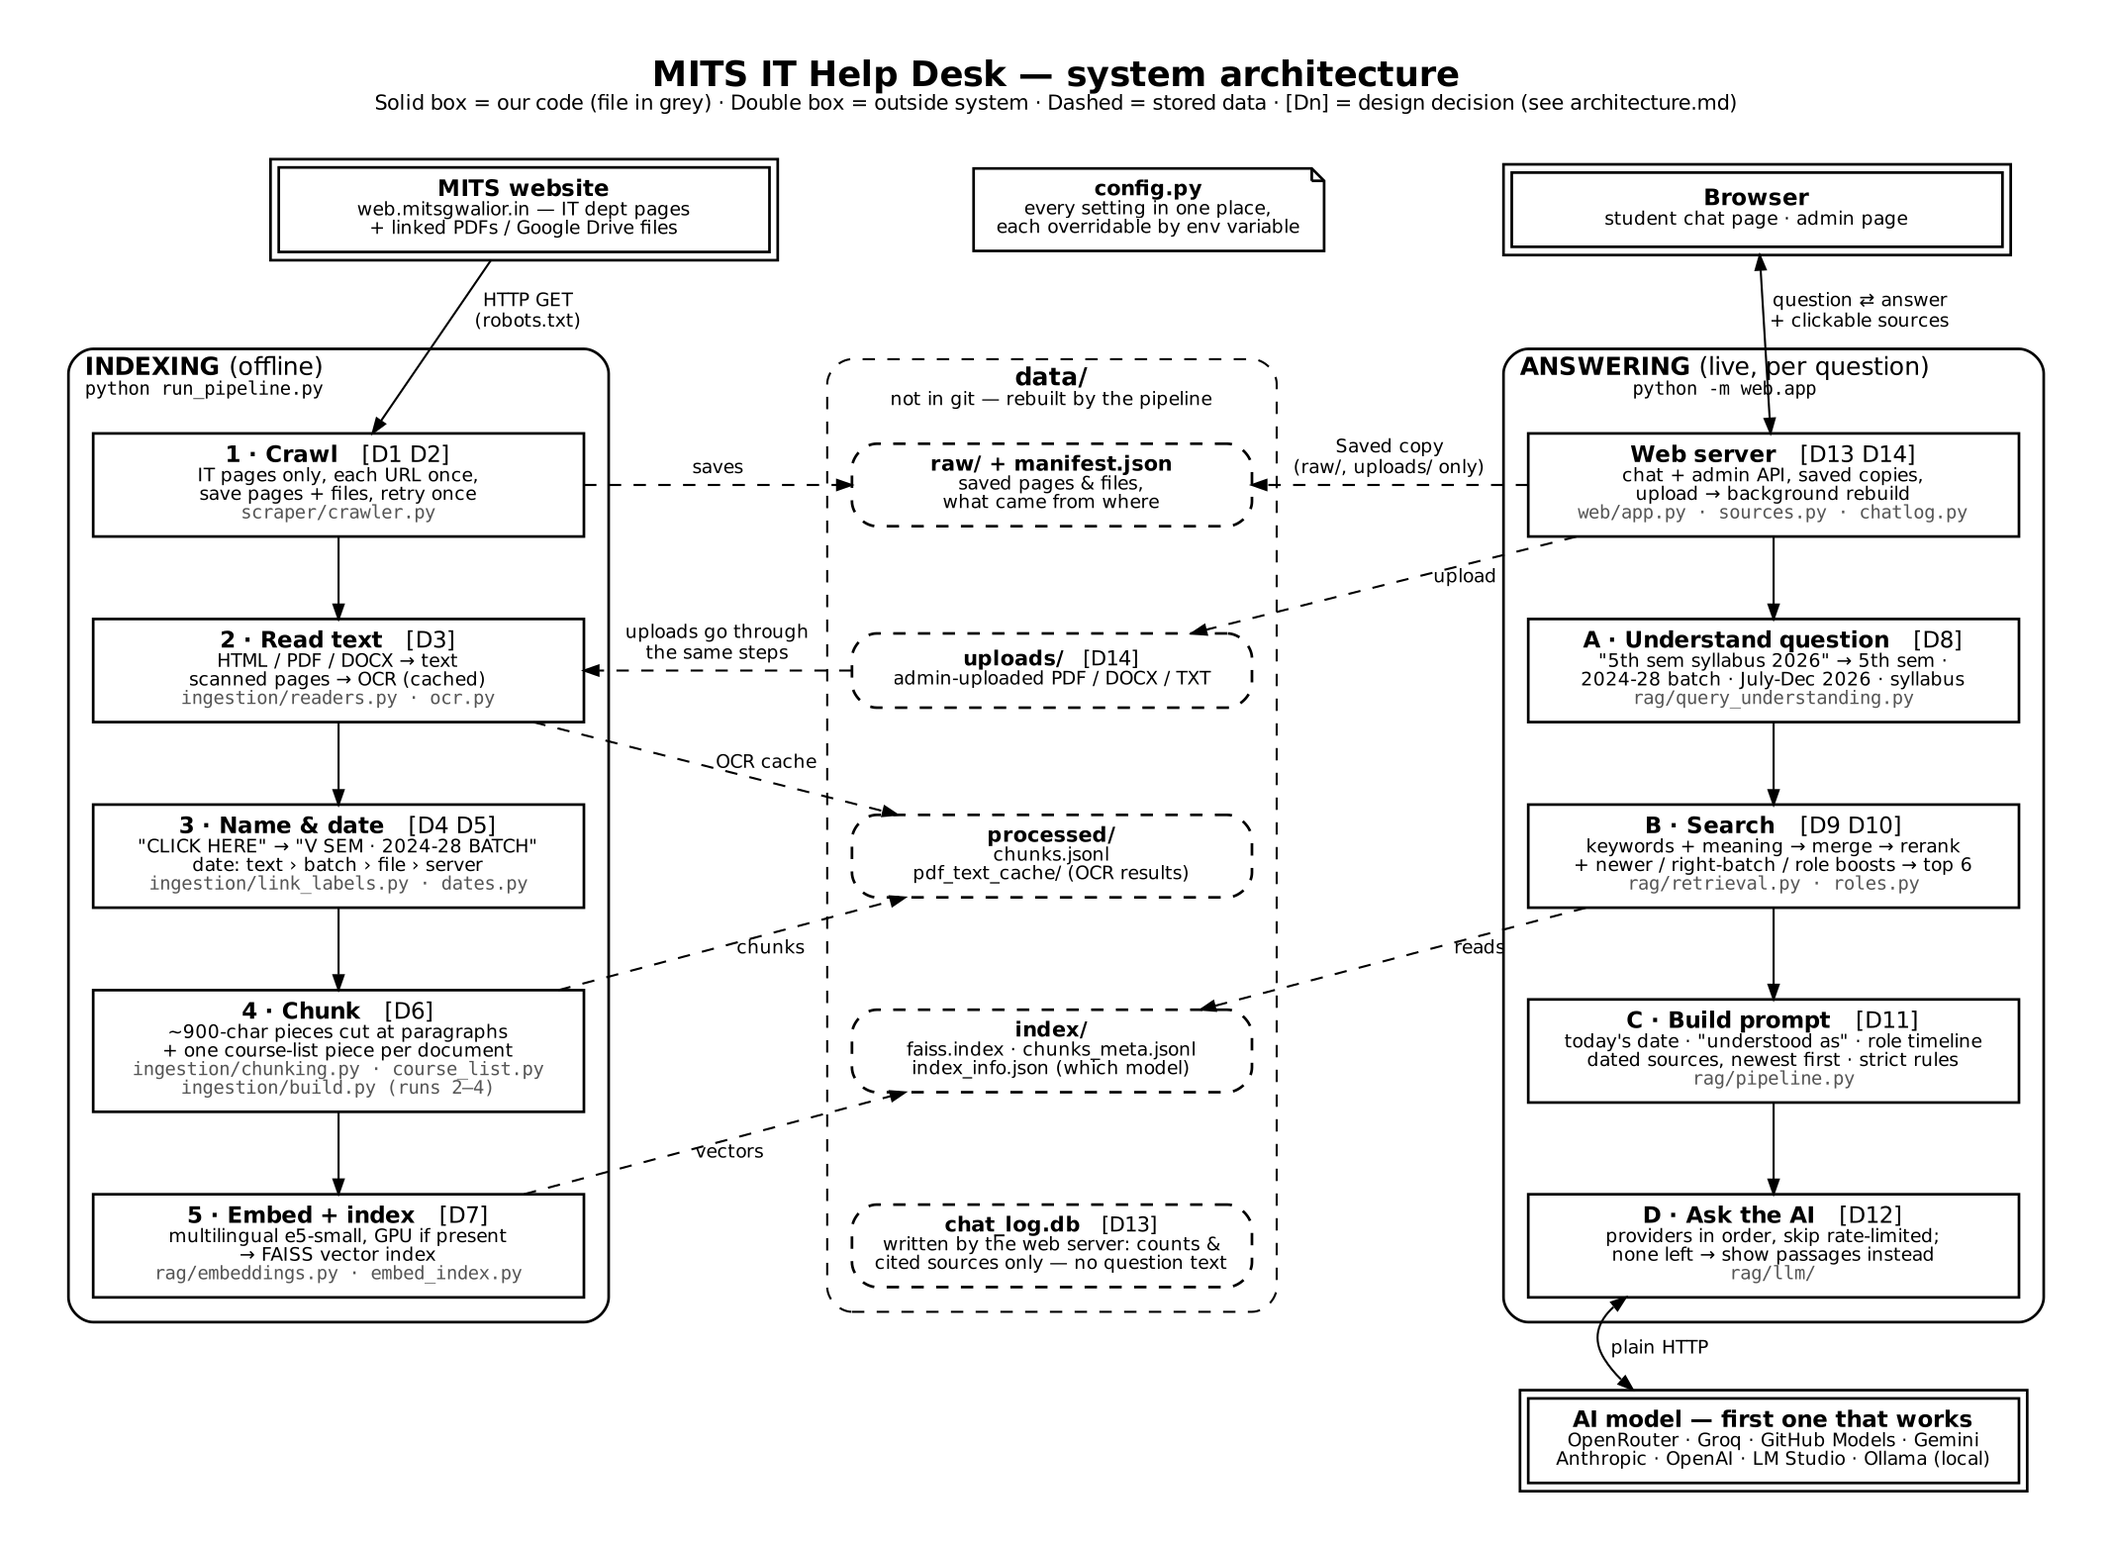
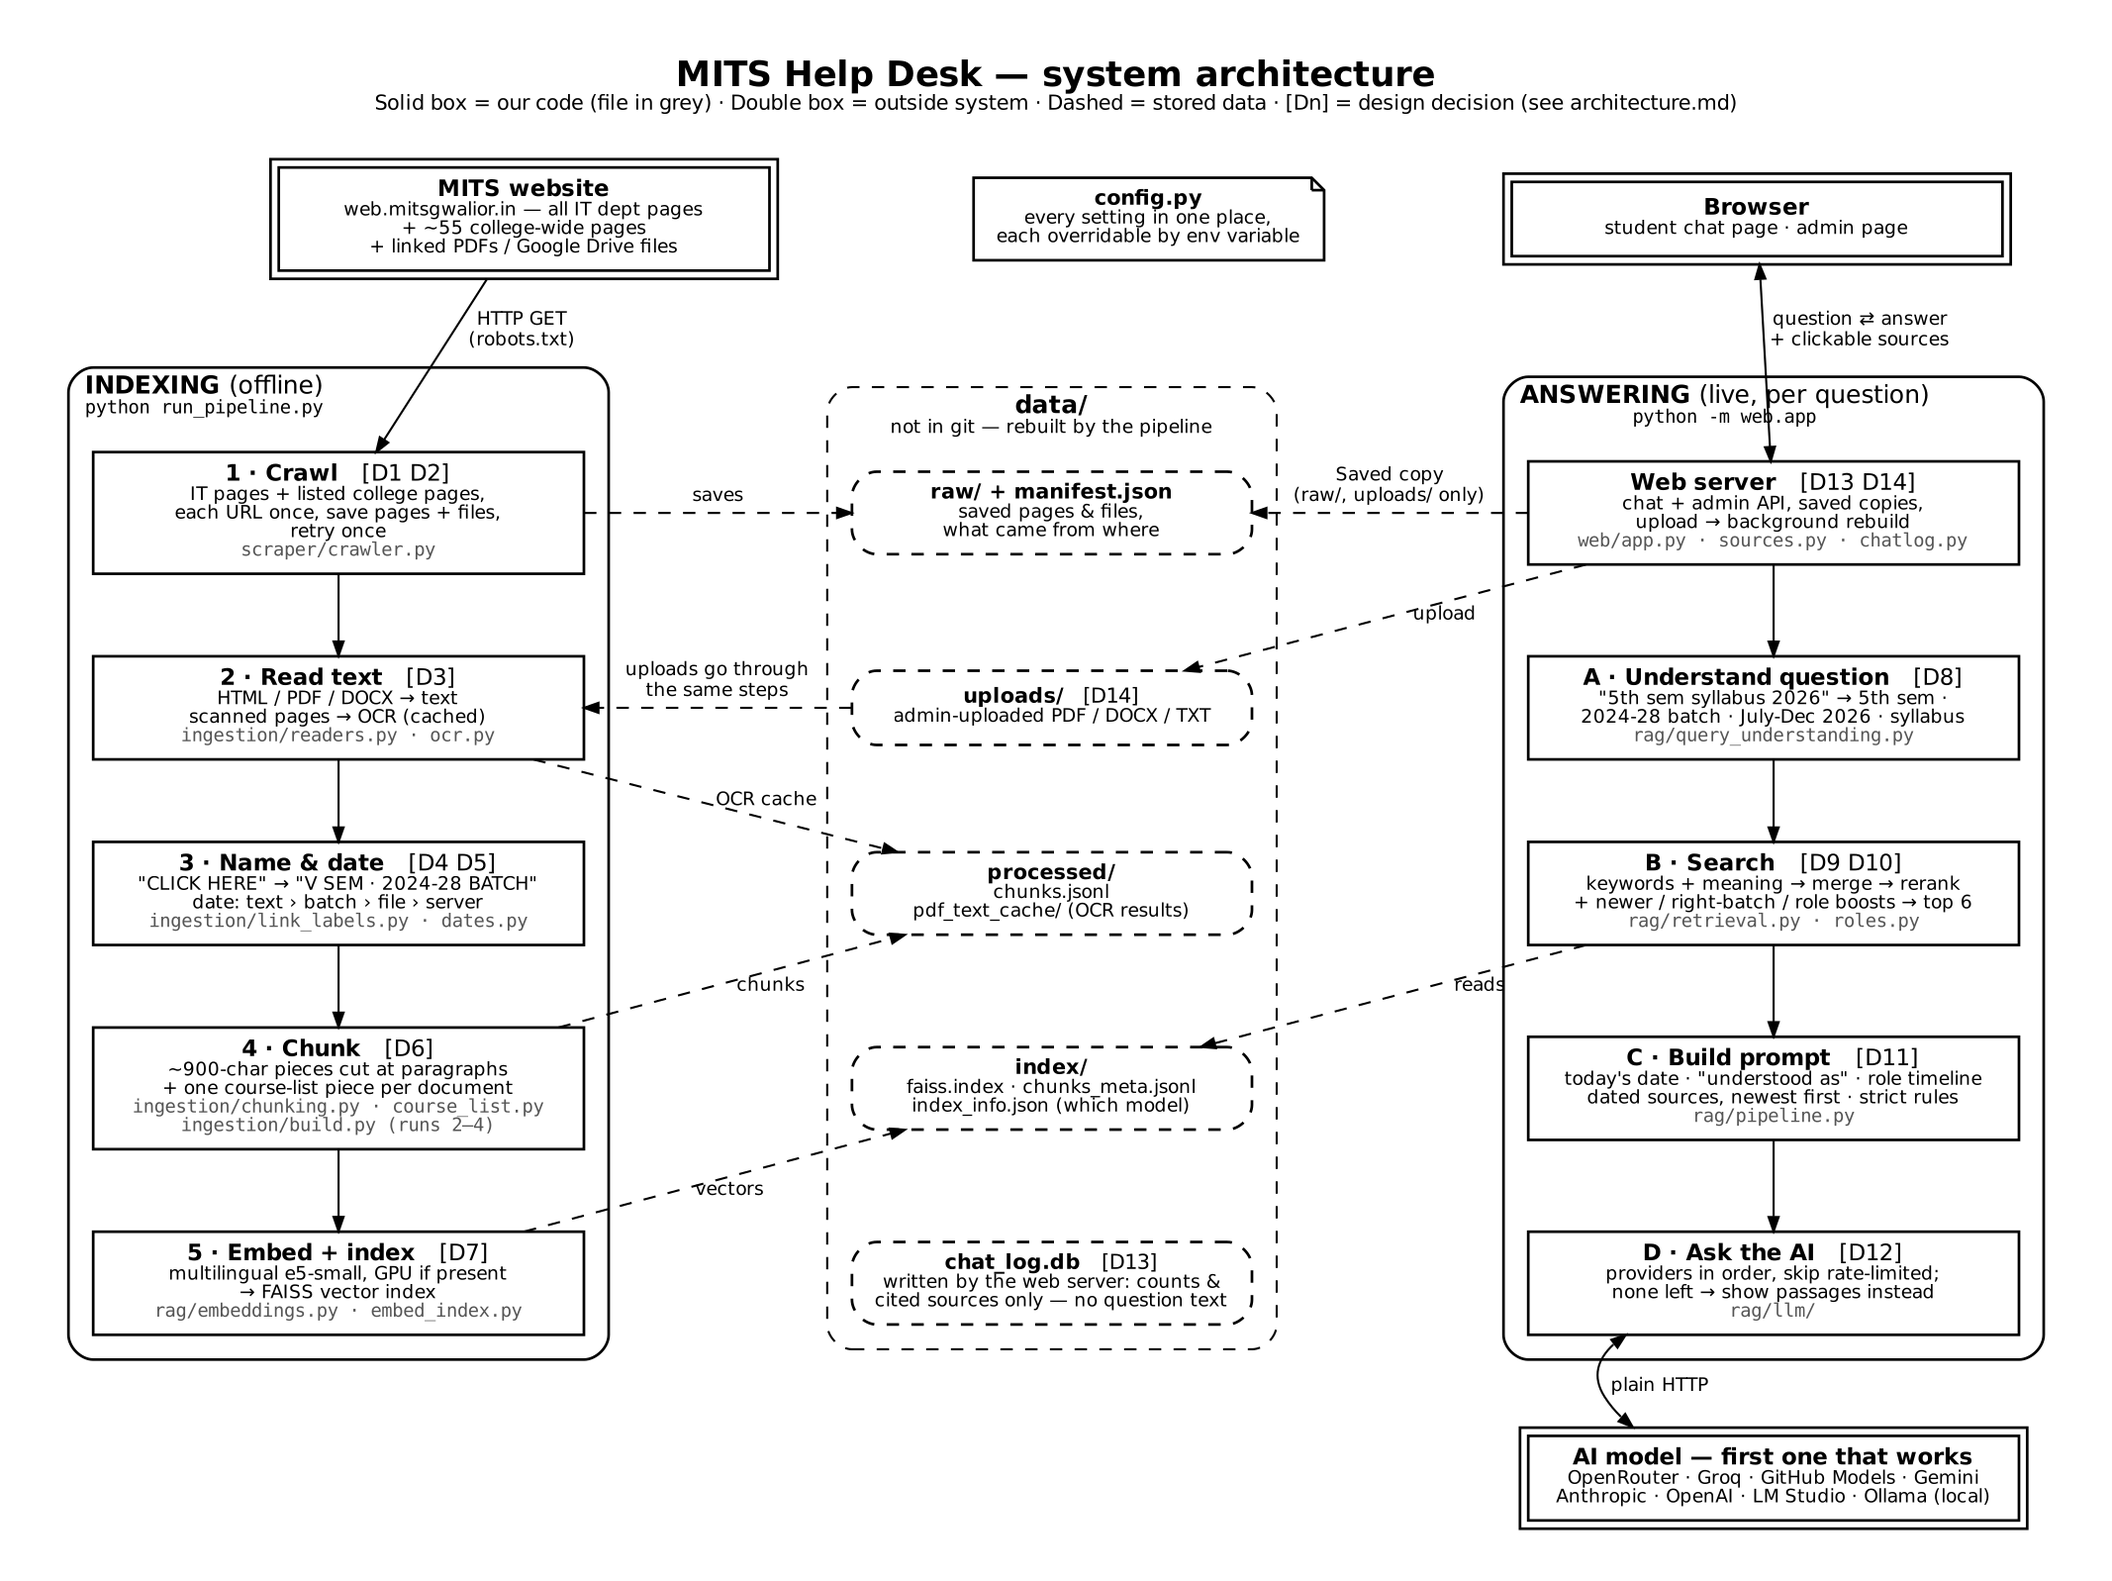
Docs match the build: college-wide scope, D18 (why Python/FAISS, not React/Node/MongoDB/Pinecone), D19 (one session, no accounts), docs/README.md index, old synopsis/slides/diagram moved to docs/archive/

diff --git a/docs/architecture/architecture.md b/docs/architecture/architecture.md
@@ -1,6 +1,6 @@
 # Architecture — MITS IT Help Desk
 
-A chatbot that answers questions about the MITS IT department **only from the department's own website and documents**, and shows where each answer came from.
+A chatbot that answers students' questions about MITS Gwalior **only from the college's own website and documents**, and shows where each answer came from. The IT department is covered in full (every page and every linked PDF); for the rest of the college a fixed list of college-wide pages is covered (rules, calendar, exams, fees, admissions, hostels, library, student cells, placement, notices). It is an MVP: other departments are added the same way.
 
 It has two halves that never run at the same time:
 
@@ -25,11 +25,11 @@ A real question traced through the system. The values on the right are actual ou
 
 ## Design decisions
 
-Each row answers: what we chose, why, and what we did **not** choose. D15–D17 came from testing with 55 real-style questions.
+Each row answers: what we chose, why, and what we did **not** choose. D15–D17 came from testing with 55 real-style questions; D18–D19 record where the build differs from the milestone 1–2 plan, and why.
 
 | # | Decision | Why | Not chosen (and why not) |
 |---|---|---|---|
-| **D1** | **Scope-locked crawl.** Only `web.mitsgwalior.in`, only IT pages (URL prefix + the department's own sidebar menu), only the page's main content area. | The bot must answer about the IT department, not the whole university. Site-wide menus link hostel or NAAC PDFs that would pollute answers. | Crawling the whole site: more data, but mostly irrelevant and slower. |
+| **D1** | **Scope-locked crawl.** Only `web.mitsgwalior.in`; all IT pages (URL prefix + the department's own sidebar menu), plus a fixed list of ~55 college-wide pages and 7 rule PDFs (`config.COLLEGE_PAGES`) whose links are *not* followed; only each page's main content area. | Students ask about the college too (fees, hostel, exam rules, calendar), and the project title says "college information". A hand-picked list adds exactly that without pulling in tenders, recruitment or 20 other departments. | Crawling the whole site: thousands of pages, mostly irrelevant, hours of OCR. IT pages only: the bot had to refuse every college question. |
 | **D2** | **Visit each URL once; safe writes; retry once.** Files are written to a temp file and then swapped in. A stopped crawl keeps the last complete `manifest.json`. Timeouts and 5xx errors are retried once. | No loops on cyclic links, no half-written files if you press Ctrl+C, and one network hiccup doesn't drop a page. | Endless retries: one dead link could stall the crawl. Resuming a stopped crawl: not needed, since a full crawl of ~30 pages takes minutes. |
 | **D3** | **OCR for scanned pages**: EasyOCR on the GPU (~2 s/page), RapidOCR on a CPU (~10 s/page). Results are cached by the **file's content**, not its path. | 1,737 of 4,896 PDF pages were scans with no text, including 14 of 19 pages of the 2026 V SEM syllabus. Caching by content means a copied `data/` folder on the laptop never redoes the 1-hour OCR. | Tesseract needs a system install on every machine. Skipping scans loses a third of the content. |
 | **D4** | **Name files from where they're linked.** A "CLICK HERE" link in a table becomes "V SEM · 2024-28 BATCH" (row + column header). | File names like `5th 11_merged.pdf` say nothing about the batch, so the bot couldn't tell this year's syllabus from last year's. | Using file names: they don't carry the batch. Asking staff to rename files: not in our control. |
@@ -46,6 +46,8 @@ Each row answers: what we chose, why, and what we did **not** choose. D15–D17 
 | **D15** | **Topic pages and scope rules.** Questions about labs, contacts, programmes or the department in general get that website page whole (`config.TOPIC_PAGES`); the prompt says to answer only from the IT site, never to read out students from lists, and to say which "lab" it means. | Testing showed the bot missed the Laboratories page ("labs" ≠ "laboratories"), turned a 2019 magazine joke into "yes, there is a mess", gave another college's address from a BoS member list, and listed debarred students by name. | A bigger model alone: it would still not see the Laboratories page, and a privacy rule is cheaper than trusting the model. |
 | **D16** | **Live progress while answering**: the server streams one line per step (understood, searching, sources found, which AI is writing, fallbacks) and the chat shows them as a checklist. | A 10-second wait with a spinner looks broken; showing what it's reading also builds trust. | Fake progress messages on a timer: they would lie when a step is slow. WebSockets: more moving parts than a streamed response. |
 | **D17** | **55 graded test questions** (`scripts/eval.py`) run after every change. | Each fix in D15 was found by them, and they show the fixes didn't break anything else. | Judging answers by hand each time: slow and easy to fool yourself. An AI judge: costs calls and needs its own checking. |
+| **D18** | **Python, files and FAISS instead of the planned React / Node.js / MongoDB / Pinecone** (Milestones 1–2). | The AI parts (embedding models, FAISS, OCR, rerankers) are Python-first. 9,348 chunks fit in memory (~15 MB) and are searched on the same machine, offline, for free. Text comes from pypdf + OCR and a 10-line .docx reader. | Pinecone: a paid cloud service with an API key and a network round-trip per question, built for millions of documents. Mammoth / pdf-parse: JavaScript libraries, and pdf-parse cannot read scanned pages. |
+| **D19** | **One session, no accounts, nothing stored.** The chat is a help widget: ask one question or several, reload and it is gone. Only the admin page has a password. | Students ask personal things; a help desk doesn't need to remember them. No login means no friction and no student data to protect. | Student logins and saved chat history (Milestone 2 design): more code, more personal data, and no benefit for one-off questions. |
 
 ---
 
@@ -61,9 +63,9 @@ What each folder is for, and why each file lives where it does. The four code fo
 | `web/` | **Shows it.** The website and its API. | `app.py`: the URLs (routes) only · `sources.py`: source names, links, citations, saved-page view · `chatlog.py`: usage counts (no question text) · `static/`: chat and admin pages (HTML/CSS/JS) |
 | `scripts/` | **Tools for checking the system.** Not used by the app. | `check_crawl.py`: did the crawl get everything? · `check_links.py`: does every source open? · `debug_retrieval.py`: why was a chunk (not) found? · `eval.py` + `eval_questions.json`: ask and grade the 55 test questions · `ask_batch.py`: answer your own list of questions |
 | `tests/` | **82 automated tests**, one file per module. Run with `uv run pytest tests -q`. | `test_<module>.py` |
-| `docs/` | **Documentation.** | `architecture/`: this file + diagrams (`.dot` source and `.png`) · `FEATURES.md`: what each feature does, in plain words · `evaluation/`: synopsis, presentation, and `architecture_v1_original.png` (the first design, kept because the synopsis and slides use it) |
+| `docs/` | **Documentation.** `docs/README.md` says which file to read for what. | `architecture/`: this file + diagrams (`.dot` source and `.png`) · `FEATURES.md`: what each feature does, in plain words · `archive/`: the minor-evaluation synopsis, slides and first diagram, kept unchanged for the record |
 | `data/` | **Everything the pipeline produces.** Not in git, because it's large and can be rebuilt. The repo only has an empty `data/.gitkeep` so the folder exists after cloning. | `raw/` + `manifest.json` (crawl) · `uploads/` (admin files) · `processed/` (`chunks.jsonl`, `pdf_text_cache/`) · `index/` (FAISS + chunk metadata + which model built it) · `chat_log.db` |
-| *(root)* | **Start points and settings.** | `run_pipeline.py`: crawl → chunks → index · `config.py`: every setting, each overridable by an environment variable · `pyproject.toml` + `uv.lock`: dependencies (`uv sync`) · `requirements.txt`: the same, generated from `uv.lock` for plain pip |
+| *(root)* | **Start points and settings.** | `run_pipeline.py`: crawl → chunks → index · `config.py`: every setting, each overridable by an environment variable or the `.env` file · `.env.example`: which API keys to put in `.env` (never committed) · `pyproject.toml` + `uv.lock`: dependencies (`uv sync`) · `requirements.txt`: the same, generated from `uv.lock` for plain pip |
 
 **What changed in the October 2026 clean-up:** `ingestion/extract.py` was split into `readers.py`, `chunking.py` and `build.py`; role matching moved from `retrieval.py` to `rag/roles.py`; source naming and saved pages moved from `web/app.py` to `web/sources.py`. Behaviour was checked to be identical: all tests pass, the same 9,348 chunks are built, and the same sources and prompt come out for 8 test questions.
 

diff --git a/README.md b/README.md
@@ -1,9 +1,10 @@
-# MITS IT Help Desk
+# MITS Help Desk
 
-A chatbot that answers questions about the **IT department of MITS Gwalior**, using only the department's own website and documents, and shows the source of every answer.
+A chatbot that answers students' questions about **MITS Gwalior**, using only the college's own website and documents, and shows the source of every answer. It covers the **IT department in full** (every page and every PDF it links to, scanned ones included) plus the main **college-wide pages** (rules and ordinances, academic calendar, exams, fees, admissions, hostels, library, student cells, placement, notices). It's an MVP built for one department; other departments are added the same way.
 
-It crawls the IT department pages and every PDF they link to, reads them (scanned pages included), gives every piece of text a date, and answers questions with a hybrid search and an AI model of your choice.
+It reads every page and PDF, gives every piece of text a date, and answers with a hybrid search and an AI model of your choice. One session, no login, nothing stored: reload and the chat is gone.
 
+- **Which doc to read for what:** [docs/README.md](docs/README.md)
 - **How it works, with diagrams and every design decision:** [docs/architecture/architecture.md](docs/architecture/architecture.md)
 - **Each feature in plain words (why / what / where):** [docs/FEATURES.md](docs/FEATURES.md)
 
@@ -63,7 +64,7 @@ More checking tools (crawl, links, retrieval debugging, batch answers) are liste
 
 ## Does it answer correctly?
 
-55 test questions (labs, School vs department, schemes, things not on the IT site, "where is…", mandatory tasks, contacts, timetables, typos) are graded with `uv run scripts/eval.py`. On 30 Oct 2026 with the local Ollama model: **43/55 before this round of fixes, 54/55 after.** Details and the per-group table: [docs/FEATURES.md](docs/FEATURES.md#13-55-test-questions-graded-automatically).
+55 test questions (labs, School vs department, schemes, things not on the IT site, "where is…", mandatory tasks, contacts, timetables, typos) are graded with `uv run scripts/eval.py`. On 30 Oct 2026 with the local Ollama model: **43/55 before this round of fixes, 54/55 after.** Details and the per-group table: [docs/FEATURES.md](docs/FEATURES.md#14-55-test-questions-graded-automatically).
 
 ## Settings
 
@@ -71,6 +72,6 @@ Every setting is in `config.py` and can be overridden with an environment variab
 
 ## Scope and privacy
 
-- The crawler only contacts `web.mitsgwalior.in`, follows only IT department pages, visits each URL once, and respects `robots.txt`.
+- The crawler only contacts `web.mitsgwalior.in`: it follows the IT department's pages, fetches a fixed list of college-wide pages without following their links, visits each URL once, and respects `robots.txt`.
 - Question and answer text is **never stored**: the log keeps only counts and which sources were cited.
 - `data/` (crawl, index, log) is not in git; `run_pipeline.py` rebuilds it.

diff --git a/docs/archive/README.md b/docs/archive/README.md
@@ -1,0 +1,18 @@
+# Archive: older documents (kept for the record)
+
+These describe the project **as it was at the minor evaluation (October 2026)**.
+They are not updated. For how the system works now, read
+[../architecture/architecture.md](../architecture/architecture.md) and [../FEATURES.md](../FEATURES.md).
+
+| File | What it is | What has changed since |
+|---|---|---|
+| `Synopsis_AI_Chatbot_MITS.docx` | Project synopsis (Shahid Khan, Vaibhav Bansal; guide Ms. Aradhana Saxena) | Embedding model is now multilingual-e5-small (was all-MiniLM-L6-v2); search is hybrid (keywords + meaning + reranker), not vectors only; scanned PDFs are read with OCR; every chunk is dated; more AI providers with automatic fallback |
+| `Presentation_AI_Chatbot_MITS.pptx` | Minor-evaluation slides | Same as above, plus: 86 automated tests (was 16), 55 graded test questions, college-wide pages added to the IT pages, live progress in the chat |
+| `architecture_v1_original.png` | First architecture diagram (4 layers) | Replaced by `../architecture/architecture.png`, which shows every step and design decision |
+
+The milestone reports (Requirement Analysis, System Design, Implementation,
+Integration & Testing) were submitted on SDMS as Google Drive links and are not
+stored in this repository. Milestones 1–3 describe the *planned* stack (React,
+Node.js, MongoDB, Pinecone); the project switched to Python early on because the
+AI parts (embeddings, FAISS, OCR, rerankers) are Python-first. See D18 in the
+architecture doc.

diff --git a/docs/README.md b/docs/README.md
@@ -1,0 +1,11 @@
+# Documentation: what to read
+
+| Read this | When you want to know |
+|---|---|
+| [../README.md](../README.md) | What the project is, how to install and run it, which API keys to set |
+| [architecture/architecture.md](architecture/architecture.md) | How it works: diagrams, every design decision (D1–D19) and why, what each folder holds |
+| [FEATURES.md](FEATURES.md) | Each feature in plain words (why / what / where in the code), everyday commands, test results, what is still open |
+| [archive/](archive/README.md) | The minor-evaluation synopsis and slides, kept unchanged for the record |
+
+Diagrams are made from the `.dot` files next to them:
+`dot -Tpng -Gdpi=150 architecture.dot -o architecture.png`.
